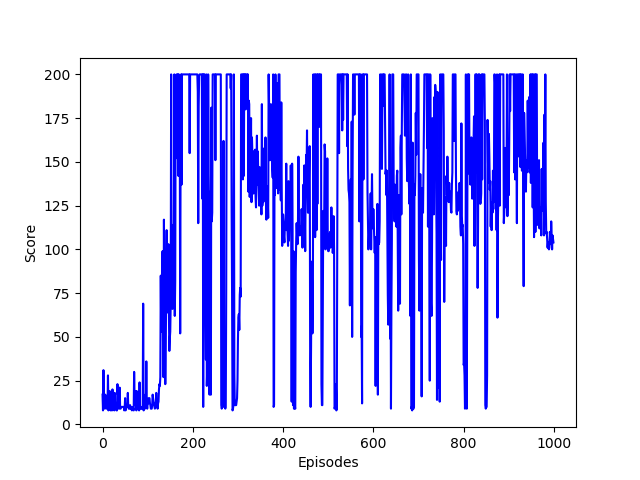
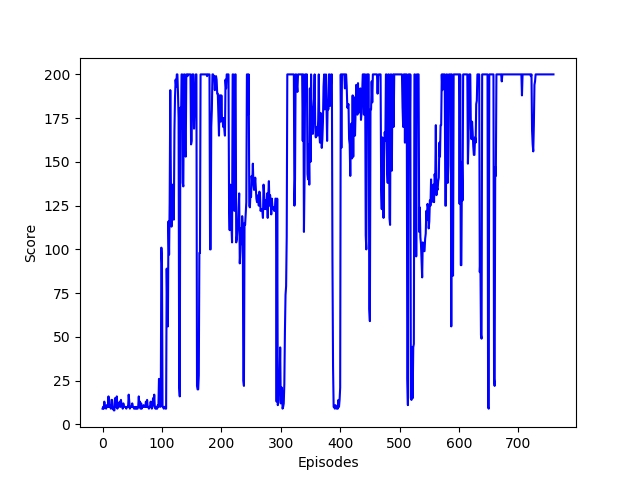
no message

diff --git a/cartpole/cartpole_dqn.py b/cartpole/cartpole_dqn.py
@@ -17,7 +17,7 @@ EPISODES = 1000  # Maximum number of episodes
 class DQNAgent:
     # Constructor for the agent (invoked when DQN is first called in main)
     def __init__(self, state_size, action_size):
-        self.check_solve = False  # If True, stop if you satisfy solution confition
+        self.check_solve = True  # If True, stop if you satisfy solution confition
         self.render = True  # If you want to see Cartpole learning, then change to True
 
         # Get size of state and action
@@ -27,13 +27,13 @@ class DQNAgent:
         # Modify here
 
         # Set hyper parameters for the DQN. Do not adjust those labeled as Fixed.
-        self.discount_factor = 0.95
-        self.learning_rate = 0.01
+        self.discount_factor = 0.99
+        self.learning_rate = 0.005
         self.epsilon = 0.02  # Fixed
         self.batch_size = 32  # Fixed
         self.memory_size = 1000
         self.train_start = 1000  # Fixed
-        self.target_update_frequency = 1
+        self.target_update_frequency = 2
 
         # Number of test states for Q value plots
         self.test_state_no = 10000
@@ -56,9 +56,9 @@ class DQNAgent:
     # Tip: Consult https://keras.io/getting-started/sequential-model-guide/
     def build_model(self):
         model = Sequential()
-        model.add(Dense(24, input_dim=self.state_size, activation='relu',
+        model.add(Dense(64, input_dim=self.state_size, activation='relu',
                         kernel_initializer='he_uniform'))
-        model.add(Dense(24, activation='relu',
+        model.add(Dense(32, activation='relu',
                         kernel_initializer='he_uniform'))
         model.add(Dense(self.action_size, activation='linear',
                         kernel_initializer='he_uniform'))
